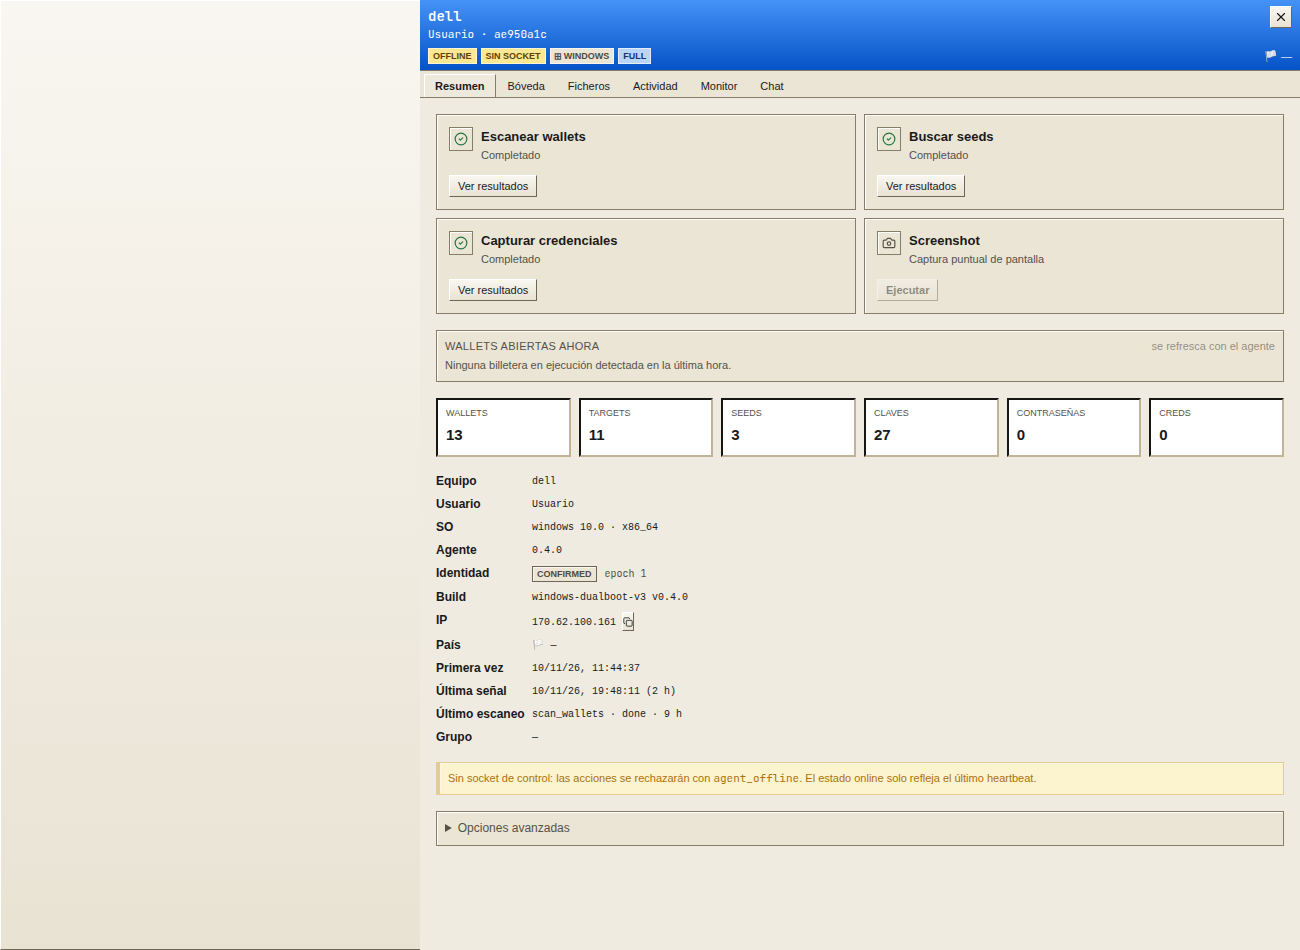
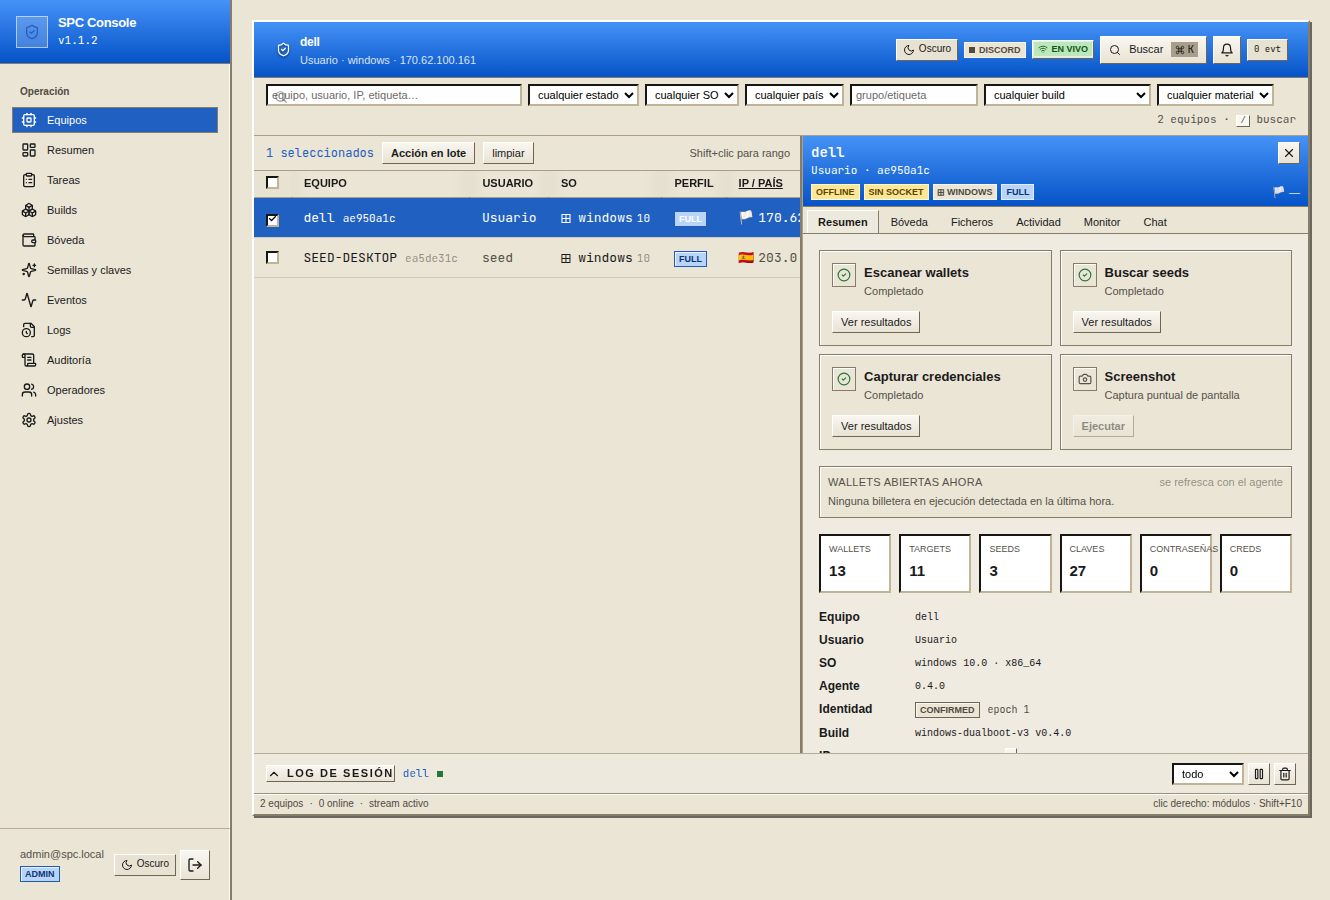
docs(ui): evidencias del detalle lateral y contadores corregidos

Changed region(s): [[0.0, 0.0, 1.0, 0.9333], [0.0, 0.9333, 0.3385, 1.0]]

diff --git a/docs/MODULE_MENU_XP.md b/docs/MODULE_MENU_XP.md
@@ -69,7 +69,8 @@ Estado encontrado: trabajo a medias, sin compilar. Nada estaba cableado al panel
   pestañas con relieve, filas seleccionadas azules, tarjetas de grupo, contadores
   blancos, popovers y diálogos con barra de título.
 - `docs/ui/xp-victims.png`: listado con barra de título y estado.
-- `docs/ui/xp-detail.png`: detalle con cabecera azul, pestañas y metadatos densos.
+- `docs/ui/xp-detail.png`: detalle lateral sin ocultar el listado.
+- `docs/ui/xp-dashboard.png`: contadores hundidos y bandeja de eventos.
 - `docs/ui/xp-module-menu.png`: las 6 categorías y los 23 módulos.
 - `docs/ui/xp-module-unsupported.png`: modal de módulo sin backend con reintento.
 - `docs/ui/xp-keylogger.png`: captura en vivo y consola cruda.
